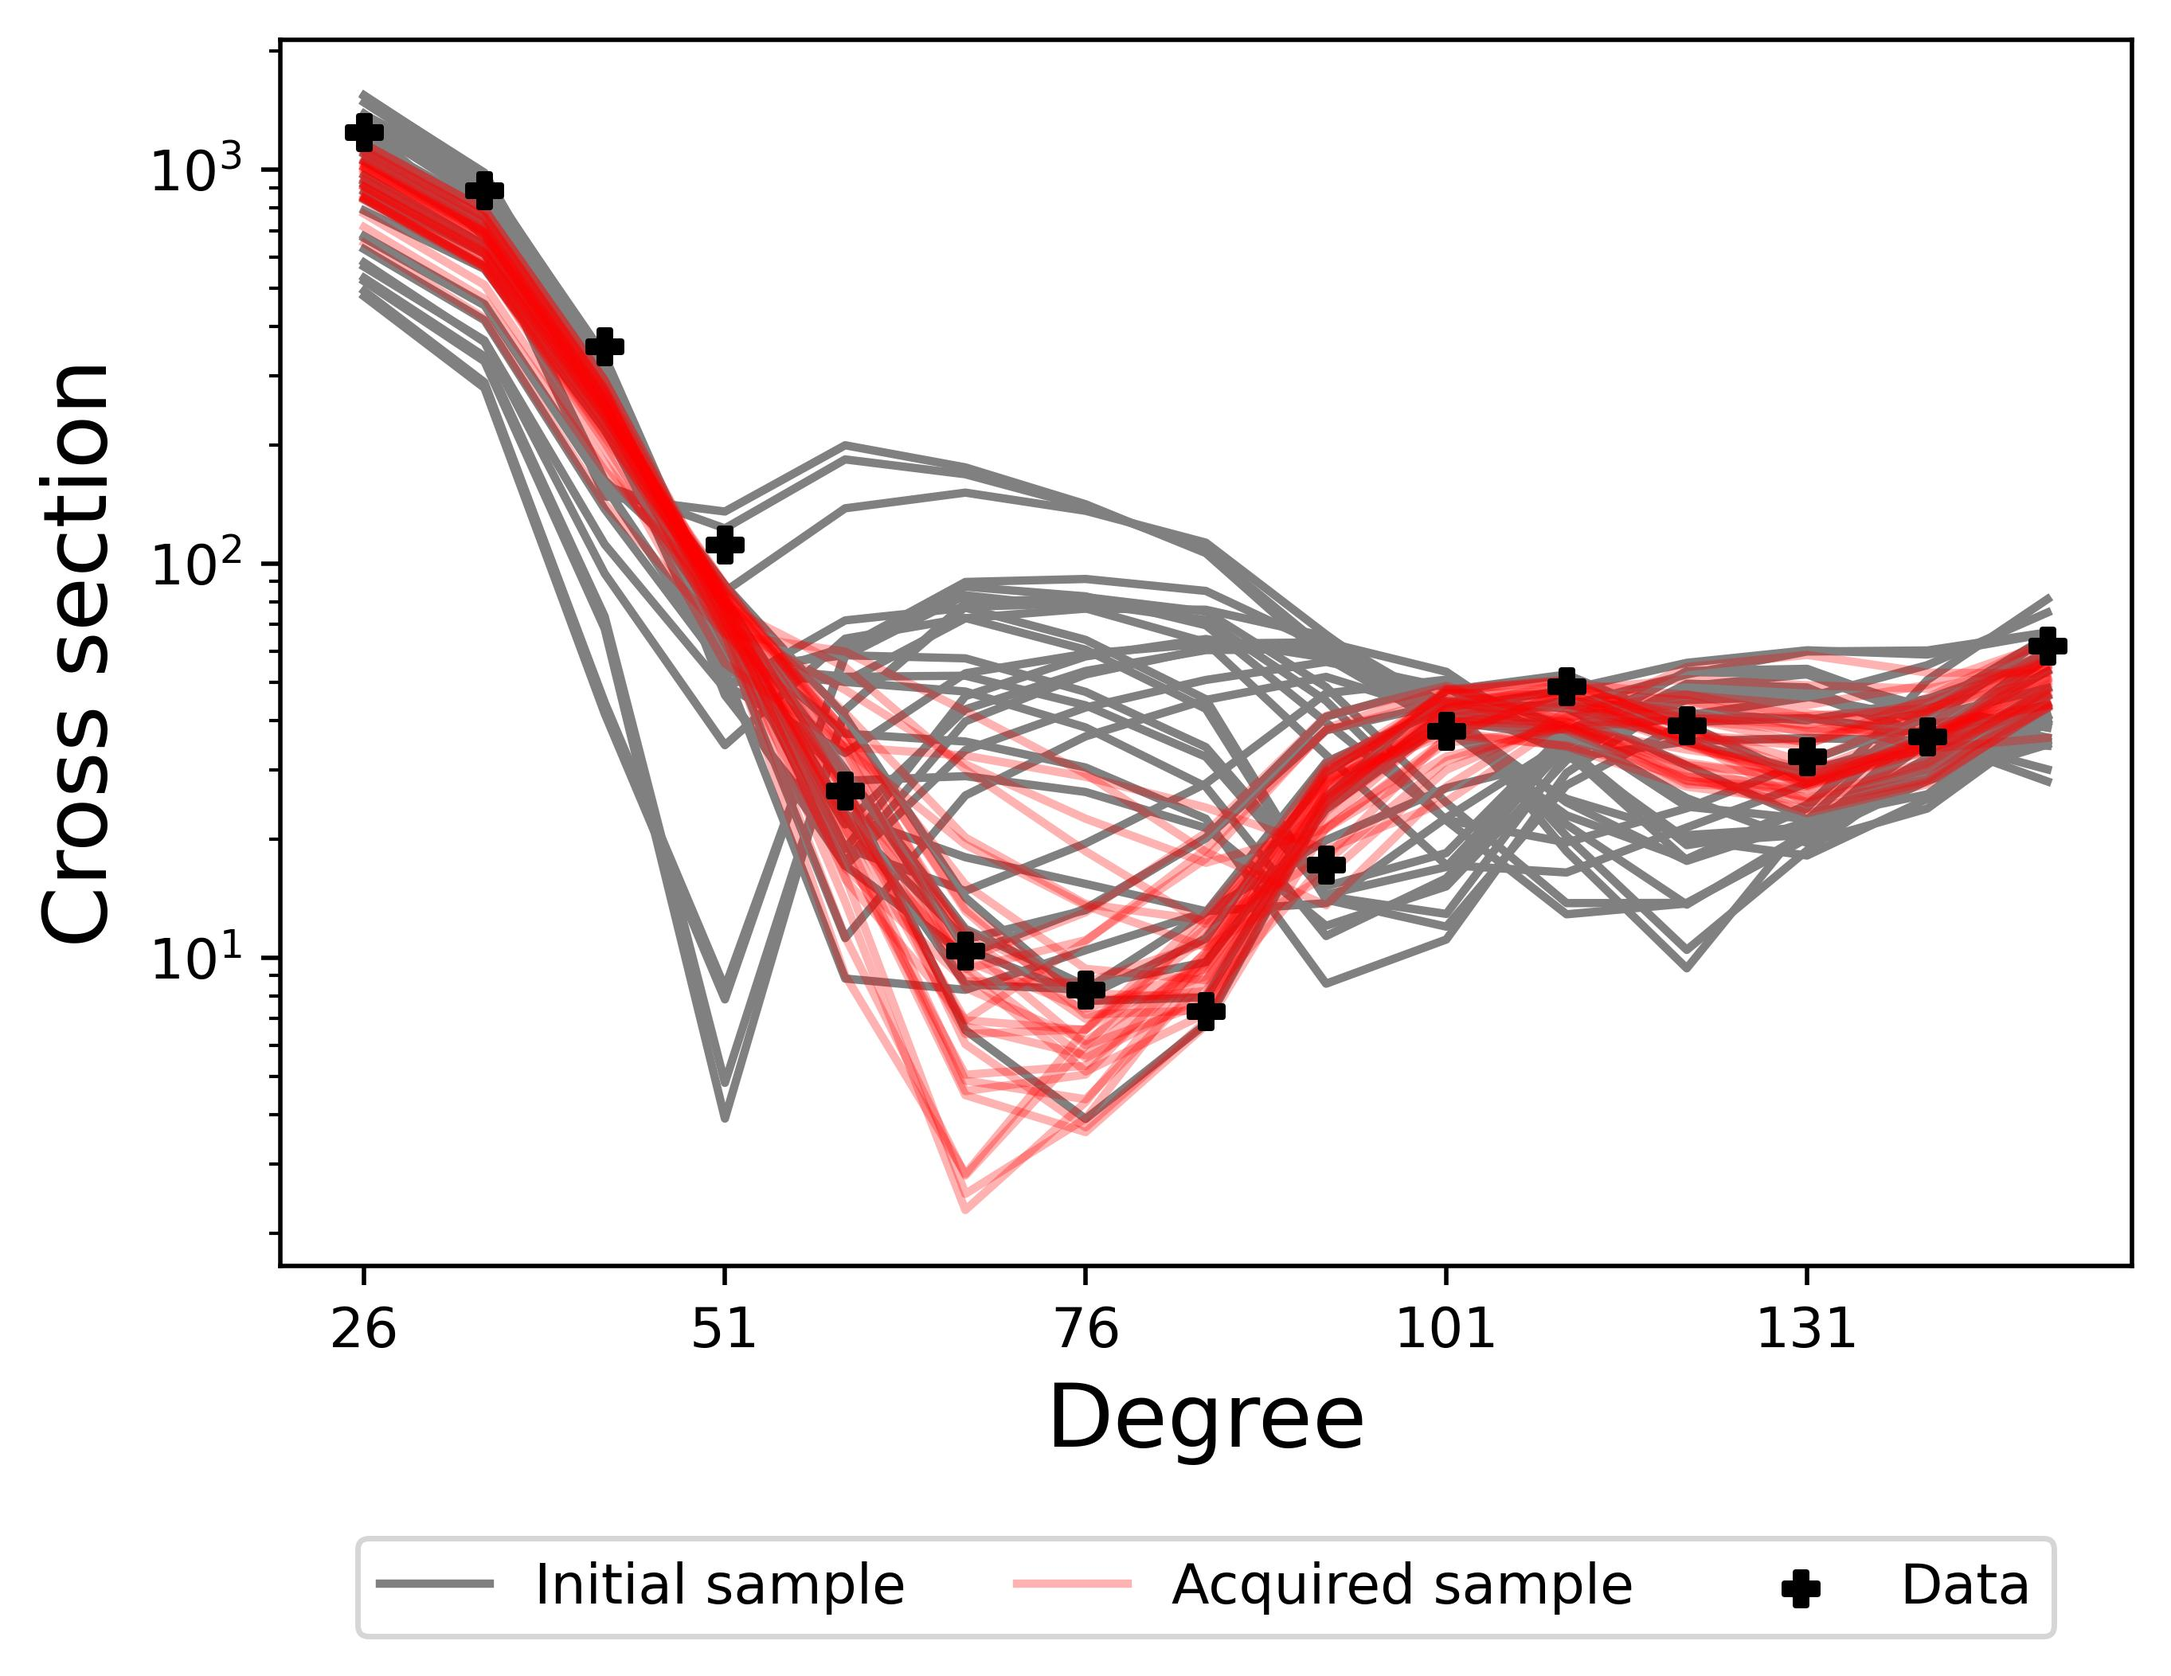
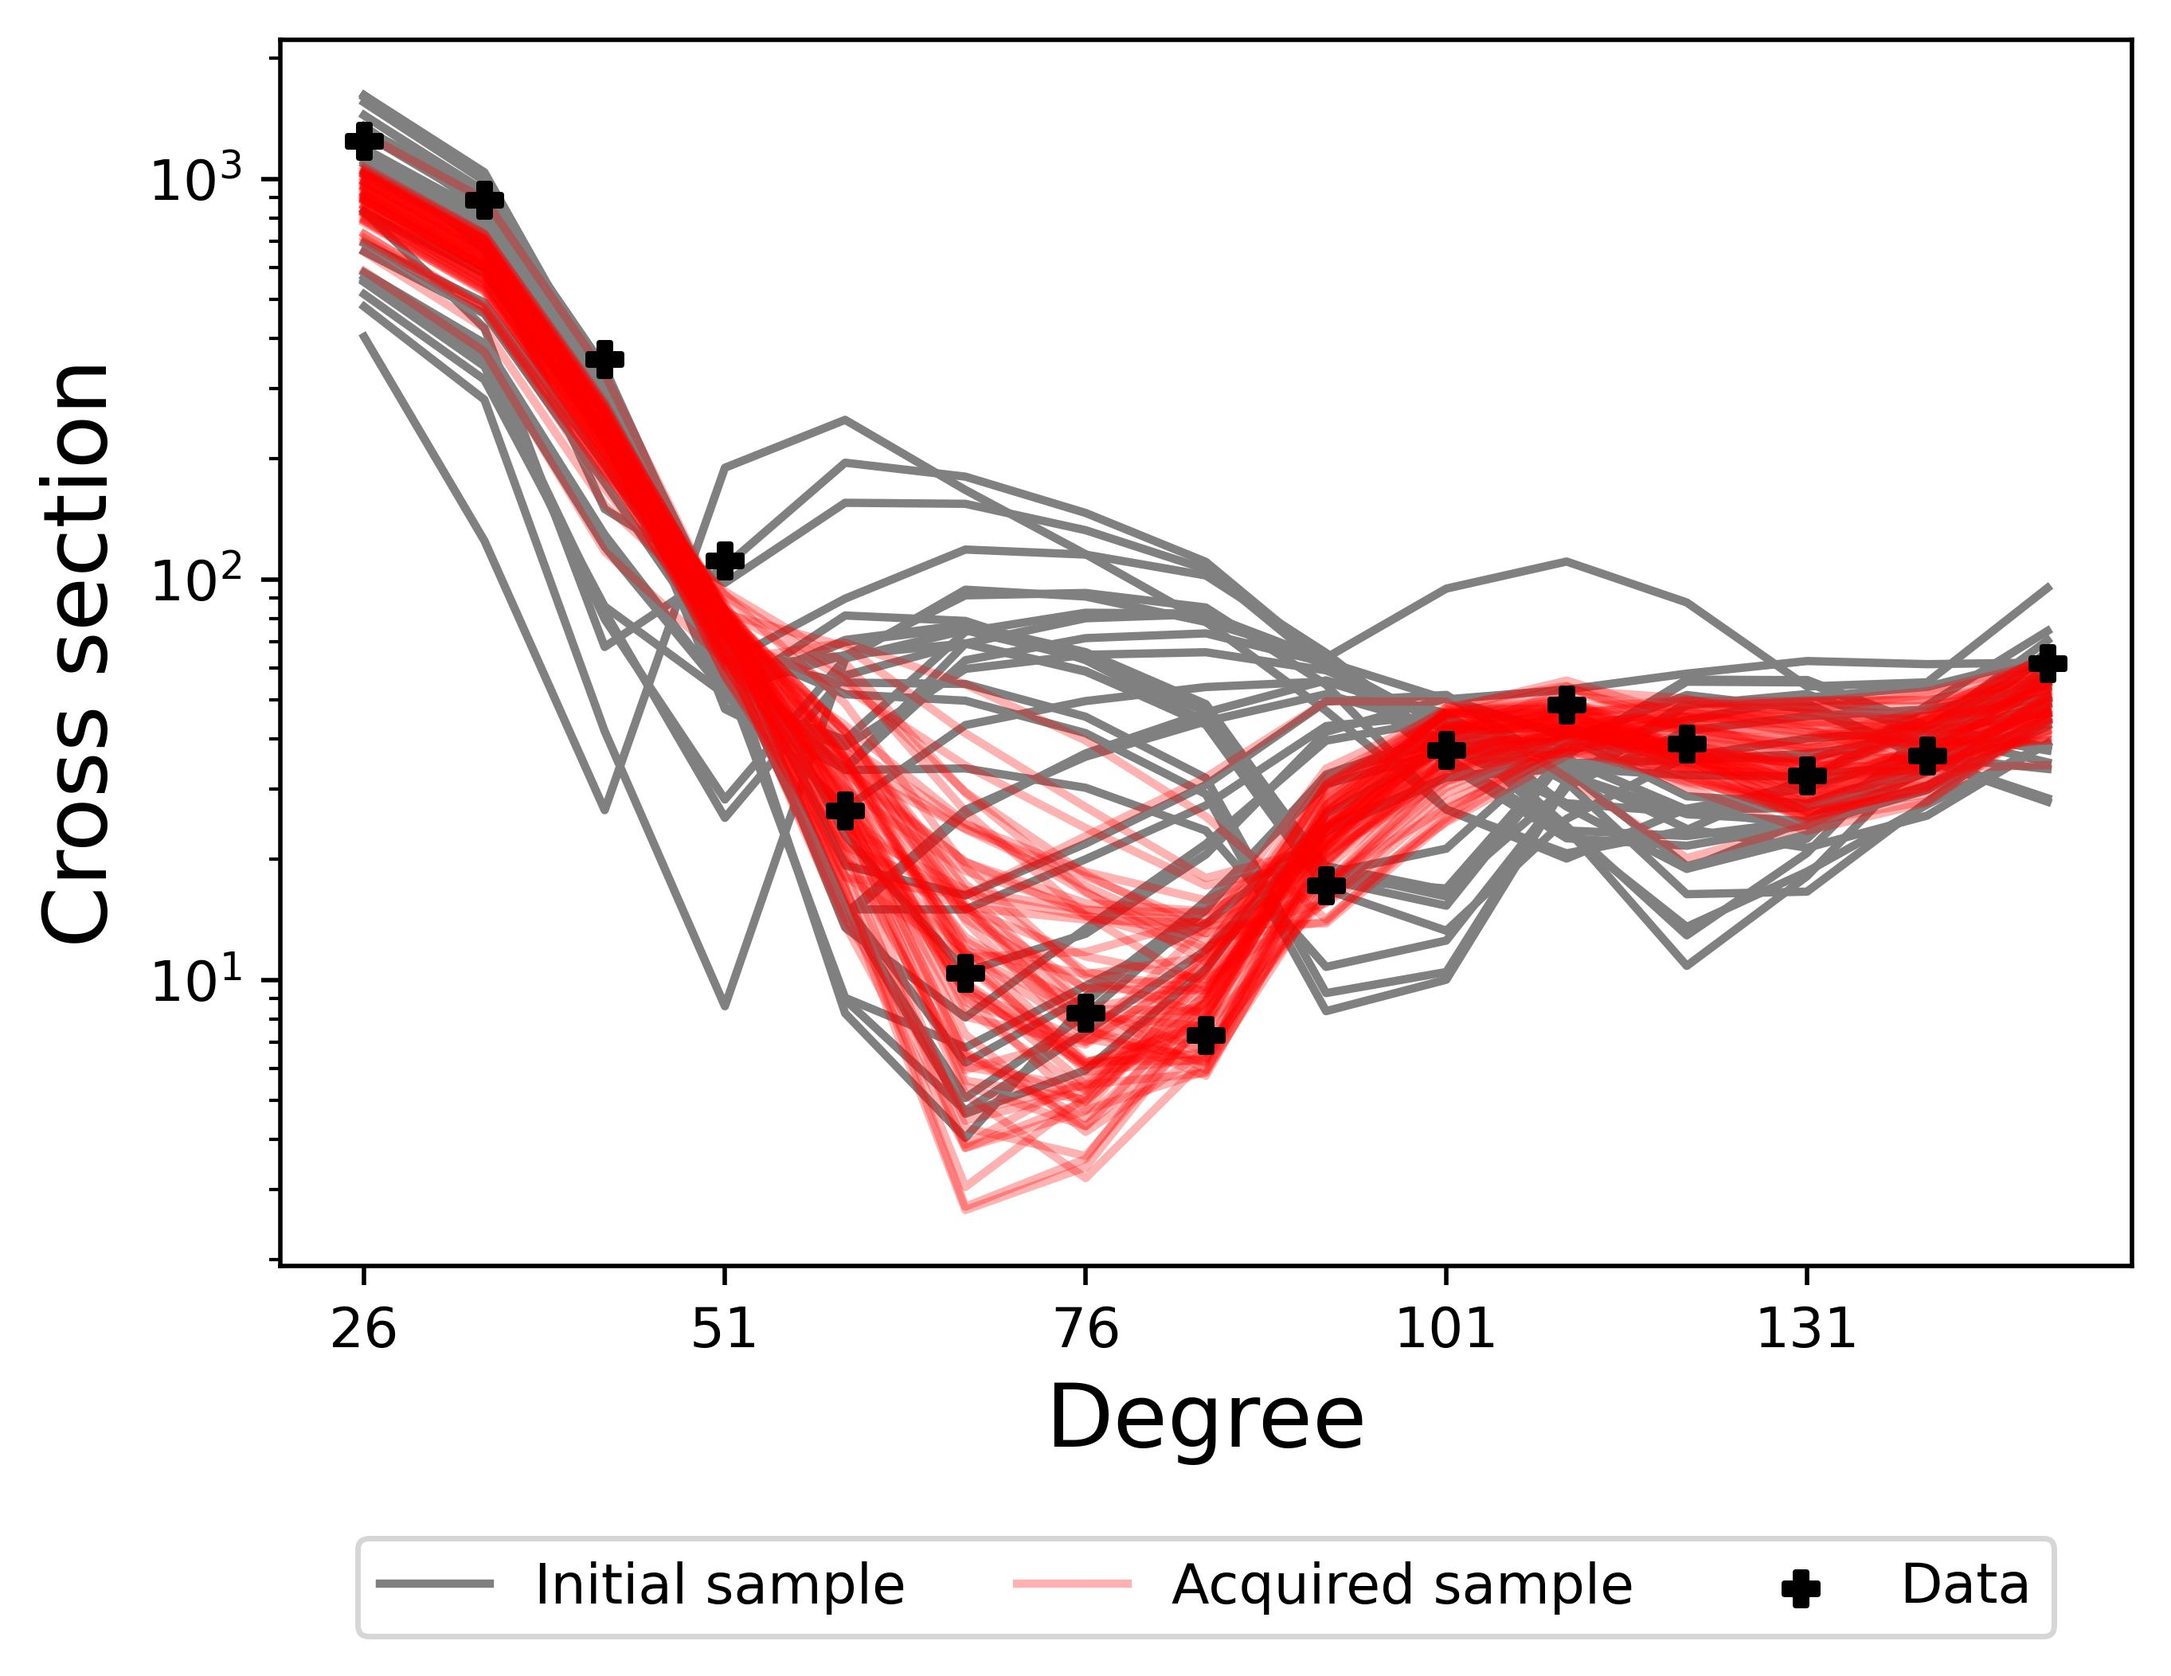
Update fresco

diff --git a/examples/fresco_example/puq_bfresco.py b/examples/fresco_example/puq_bfresco.py
@@ -3,9 +3,9 @@ from generate_test_data import generate_test_data
 import numpy as np
 import matplotlib.pyplot as plt
 from PUQ.prior import prior_dist
-from PUQ.design import designer
-from PUQ.designmethods.utils import parse_arguments
 import time
+from PUQ.designmethods.sequential_md_deterministic import sequential_design
+from scipy.stats import qmc
 
 if __name__ == "__main__":
 
@@ -54,6 +54,10 @@ if __name__ == "__main__":
             self.obsvar = np.diag(np.repeat(0.1, 15))
             self.out = [("f", float, (self.d,))]
 
+            ####
+            self.dx = 1
+            self.dt = 3
+            
         def generate_input_file(self, parameter_values):
 
             file = "48Ca_template.in"
@@ -74,7 +78,7 @@ if __name__ == "__main__":
             f.writelines(content)
             f.close()
 
-        def function(self):
+        def sim(self):
             output_file = "48Ca_temp.out"
             input_file = "frescox_temp_input.in"
             os.system("frescox < frescox_temp_input.in > 48Ca_temp.out")
@@ -99,16 +103,16 @@ if __name__ == "__main__":
             ]
             return f
 
-        def sim(self, H, persis_info, sim_specs, libE_info):
+        def function(self, theta1, theta2, theta3):
             """
             Wraps frescox function
             """
-            function = sim_specs["user"]["function"]
-            H_o = np.zeros(1, dtype=sim_specs["out"])
+            #function = sim_specs["user"]["function"]
+            #H_o = np.zeros(1, dtype=sim_specs["out"])
 
-            V = H["thetas"][0][0]
-            r = H["thetas"][0][1]
-            Ws = H["thetas"][0][2]
+            V = theta1#H["thetas"][0][0]
+            r = theta2#H["thetas"][0][1]
+            Ws = theta3#H["thetas"][0][2]
 
             # V = 49.2849
             # r = 0.9070
@@ -119,15 +123,14 @@ if __name__ == "__main__":
 
             parameter = [V, r, a, Ws, rs, a2]
             self.generate_input_file(parameter)
-            H_o["f"] = function()
+            f = self.sim()
             for fname in os.listdir():
                 if fname.startswith("fort"):
                     os.remove(fname)
-            return H_o, persis_info
+            return f
 
     design_start = time.time()
 
-    args = parse_arguments()
     cls_fresco = bfrescox()
     print("Generating test data")
     test_data = generate_test_data(cls_fresco)
@@ -138,25 +141,39 @@ if __name__ == "__main__":
         a=cls_fresco.thetalimits[:, 0], b=cls_fresco.thetalimits[:, 1]
     )
 
+    # Initial sample
+    ndim = cls_fresco.thetalimits.shape[0]
+    sampler = qmc.LatinHypercube(d=ndim, seed=1)
+    # Generate samples in [0,1]^d
+    unit_sample = sampler.random(n=32)
+    # Scale using limits
+    t0 = qmc.scale(unit_sample, cls_fresco.thetalimits[:, 0], cls_fresco.thetalimits[:, 1])
+    f0 = np.zeros((t0.shape[0], cls_fresco.d))
+    for i in range(t0.shape[0]):
+        f0[i, :] = cls_fresco.function(t0[i, 0], t0[i, 1], t0[i, 2])
+
     print("Beginning of sequential procedure")
-    al_fresco = designer(
-        data_cls=cls_fresco,
-        method="SEQCAL",
+    des_obj = sequential_design(cls_fresco)
+    des_obj.build_design(
+        z0=t0,
+        f0=f0,
+        T=64,
+        test=test_data,
+        af="ivar",
         args={
             "mini_batch": 1,
-            "n_init_thetas": args.n_init_thetas,
+            "n_init_thetas": 10,
             "nworkers": 2,
-            "AL": args.al_func,
-            "seed_n0": args.seed_n0,
             "prior": prior_func,
             "data_test": test_data,
-            "max_evals": args.max_eval,
-            "type_init": None,
+            "seed": 1,
+            "integral": "LHS",
         },
     )
 
     print("End of sequential procedure")
-    theta_al = al_fresco._info["theta"]
+    # theta_al = al_fresco._info["theta"]
+    theta_al = des_obj.zs
 
     real_x = np.array(
         [[26, 31, 41, 51, 61, 71, 76, 81, 91, 101, 111, 121, 131, 141, 151]]
@@ -184,7 +201,7 @@ if __name__ == "__main__":
         dtype="float64",
     )
     n0 = 32
-    f = al_fresco._info["f"]
+    f = des_obj.fs #al_fresco._info["f"]
 
     fig = plt.figure(figsize=(6, 4))
     ax = fig.add_subplot(1, 1, 1)
@@ -203,7 +220,7 @@ if __name__ == "__main__":
                     label="Initial sample",
                 )
         else:
-            if i < 63:
+            if i < 95:
                 ax.plot(
                     np.arange(15), np.exp(f[i, :]), color="red", alpha=0.3, zorder=1
                 )
@@ -225,7 +242,7 @@ if __name__ == "__main__":
     ax.set_ylabel("Cross section", fontsize=16)
     ax.set_yscale("log")
     ax.legend(loc="upper center", bbox_to_anchor=(0.5, -0.2), ncol=3, fontsize=10)
-    plt.savefig("Figure_fresco.jpg", format="jpeg", bbox_inches="tight", dpi=500)
+    plt.savefig("Figure_fresco.png", format="jpeg", bbox_inches="tight", dpi=500)
     plt.show()
 
     design_end = time.time()

diff --git a/examples/fresco_example/generate_test_data.py b/examples/fresco_example/generate_test_data.py
@@ -25,11 +25,11 @@ def compute_likelihood(emumean, emuvar, obs, obsvar, is_cov):
 
 
 def generate_test_data(cls_synth_init):
-    from smt.sampling_methods import LHS
-
+    # from smt.sampling_methods import LHS
+    from scipy.stats import qmc
     data_name = cls_synth_init.data_name
     print("Running ", data_name)
-    function = cls_synth_init.function
+    sim = cls_synth_init.sim
     sh = cls_synth_init.d
     thetalimits = cls_synth_init.thetalimits
     obsvar = cls_synth_init.obsvar
@@ -42,8 +42,16 @@ def generate_test_data(cls_synth_init):
             [thetalimits[2, :][0], thetalimits[2, :][1]],
         ]
     )
-    sampling = LHS(xlimits=xlimits, random_state=1)
-    x = sampling(n)
+    # Initial sample
+    ndim = xlimits.shape[0]
+    sampler = qmc.LatinHypercube(d=ndim, seed=1)
+    # Generate samples in [0,1]^d
+    unit_sample = sampler.random(n=n)
+    # Scale using limits
+    x = qmc.scale(unit_sample, xlimits[:, 0], xlimits[:, 1])
+
+    # sampling = LHS(xlimits=xlimits, random_state=1)
+    # x = sampling(n)
     ftest = np.zeros((sh, n))
     ptest = np.zeros(n)
     thetatest = np.zeros((n, cls_synth_init.p))
@@ -54,7 +62,7 @@ def generate_test_data(cls_synth_init):
     for i in range(n):
         parameter = [x[i, 0], x[i, 1], 0.6798, x[i, 2], 1.0941, 0.2763]
         cls_synth_init.generate_input_file(parameter)
-        f = function()
+        f = sim()
         ftest[:, i] = f
         ptest[i] = compute_likelihood(
             f.reshape((real_d, 1)),

diff --git a/examples/fresco_example/README.rst b/examples/fresco_example/README.rst
@@ -1,0 +1,45 @@
+Sequential Design for the Calibration of 48Ca(n,n)48Ca Reaction
+~~~~~~~~~~~~~~~~~~~~~~~~~~~~~~~~~~~~~~~~~~~~~~~~~~~~~~~~~~~~~~~~
+
+We demonstrate our sequential strategy using a nuclear physics model to predict 
+differential cross sections as a function of angle. The angular cross sections 
+vary with different parametrizations of the optical potential, which are inputs 
+to the reaction code ``frescox``. ``frescox`` generates cross sections for angles 
+ranging from 0° to 180°. This case study focuses on elastic scattering data from 
+the 48Ca(n,n)48Ca  reaction to find the optimal parametrization of the optical potential. 
+We illustrate how ``PUQ`` and ``frescox`` work together through an example.
+
+Further details on this problem, including a benchmark comparing various acquisition 
+functions and parallel implementations, can be found in Section 8.3 of the paper 
+by [Sürer, Plumlee, and Wild, 2024](https://www.tandfonline.com/doi/abs/10.1080/00401706.2023.2246157?src=&journalCode=utch20).
+
+After installing ``PUQ``, ``frescox`` must also be installed to collect data using 
+the sequential procedure. Additional notes on obtaining and building ``frescox`` 
+can be found in the [Bfrescox README](/software/Bfrescox/README.md).
+
+From the root directory of ``PUQ``, navigate to the ``examples/fresco_example`` directory:
+
+.. code-block:: python
+
+    cd examples/fresco_example
+
+
+The template input file ``48Ca_template.in`` is provided to run the example.
+
+In this illustration, we acquire 64 data points, including an initial design of size 32 from a uniform prior. 
+To acquire data points for calibrating the model via the expected integrated variance criterion, run the following command:
+
+.. code-block:: python
+
+    python puq_bfresco.py
+
+
+Running this script takes approximately 150 seconds on a personal Mac laptop. 
+Upon completion, the file ``Figure_fresco.png`` will be saved in the ``examples/fresco_example`` directory.
+
+After collecting data, we observe the cross sections evaluated with the acquired parameters.
+
+.. image:: Figure_fresco.png
+   :alt: Illustration of PUQ with Bfrescox
+   :align: center
+   :width: 600
